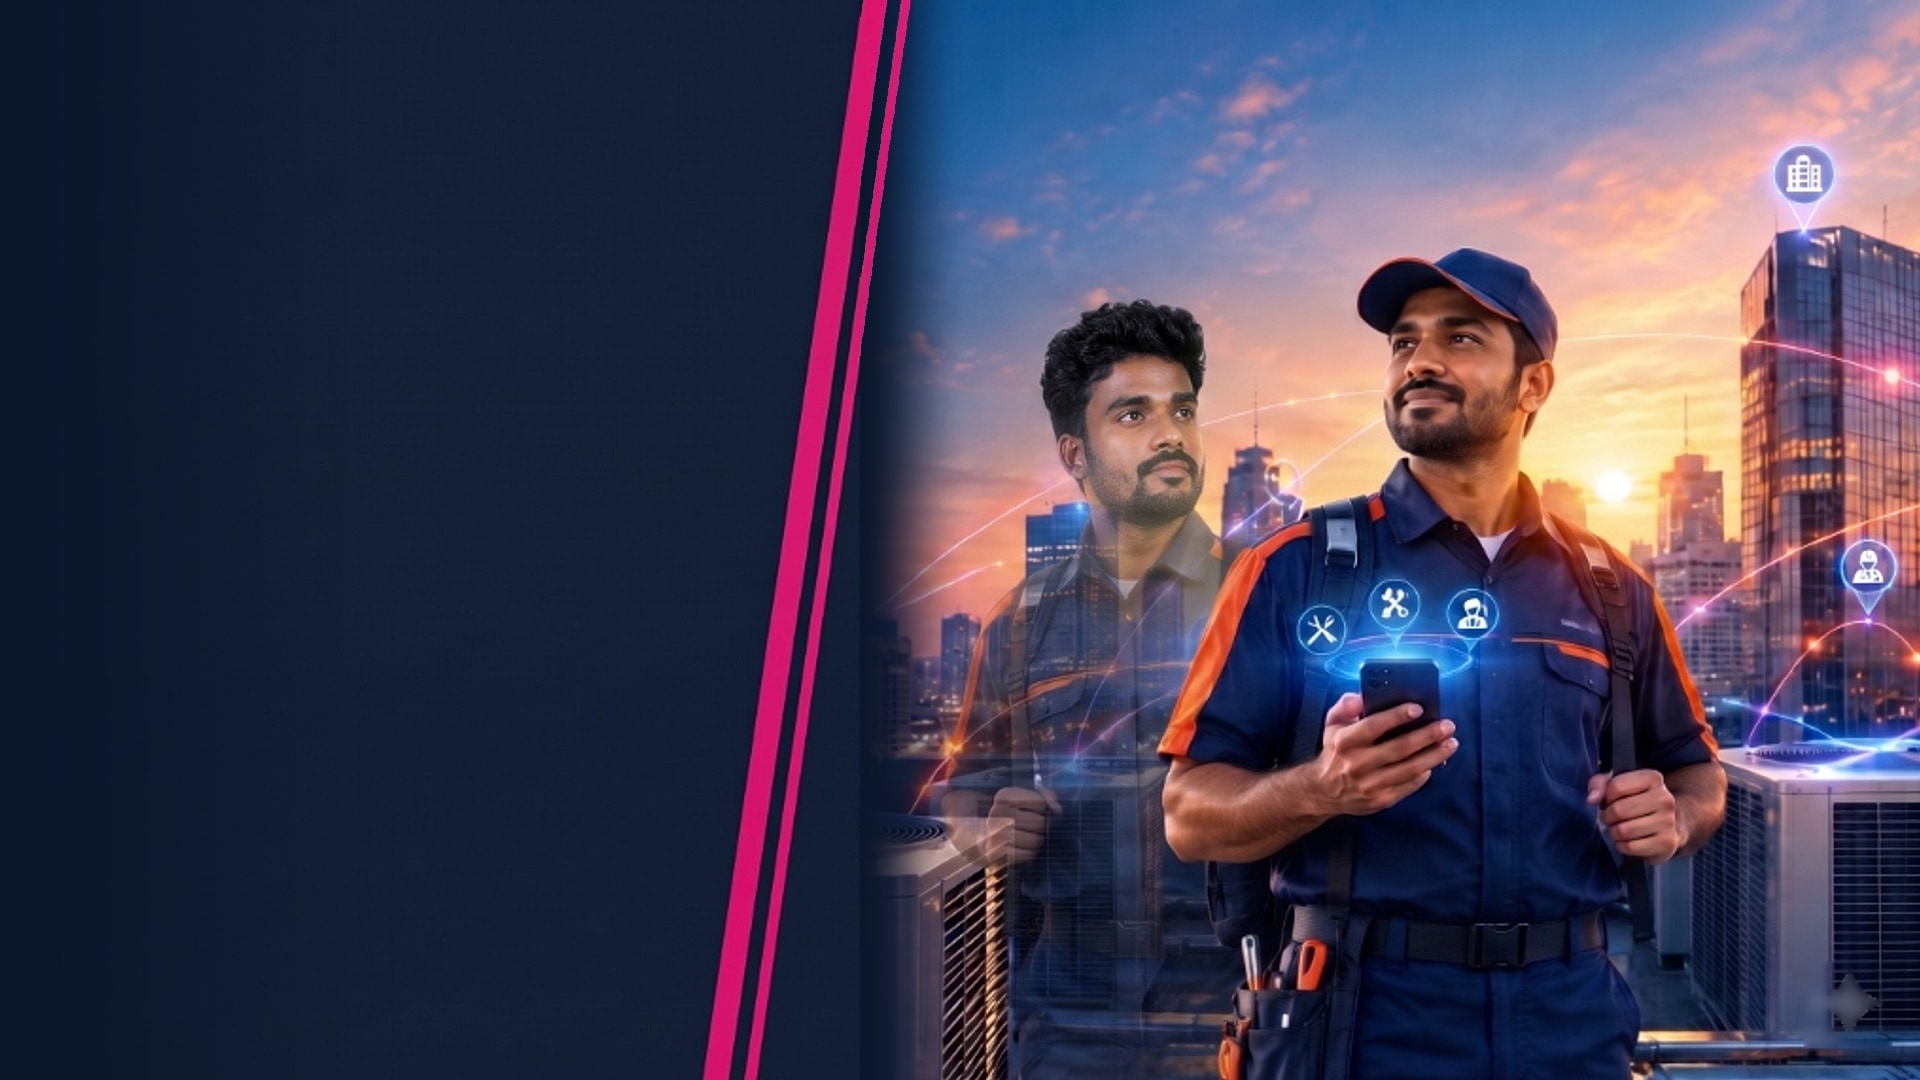
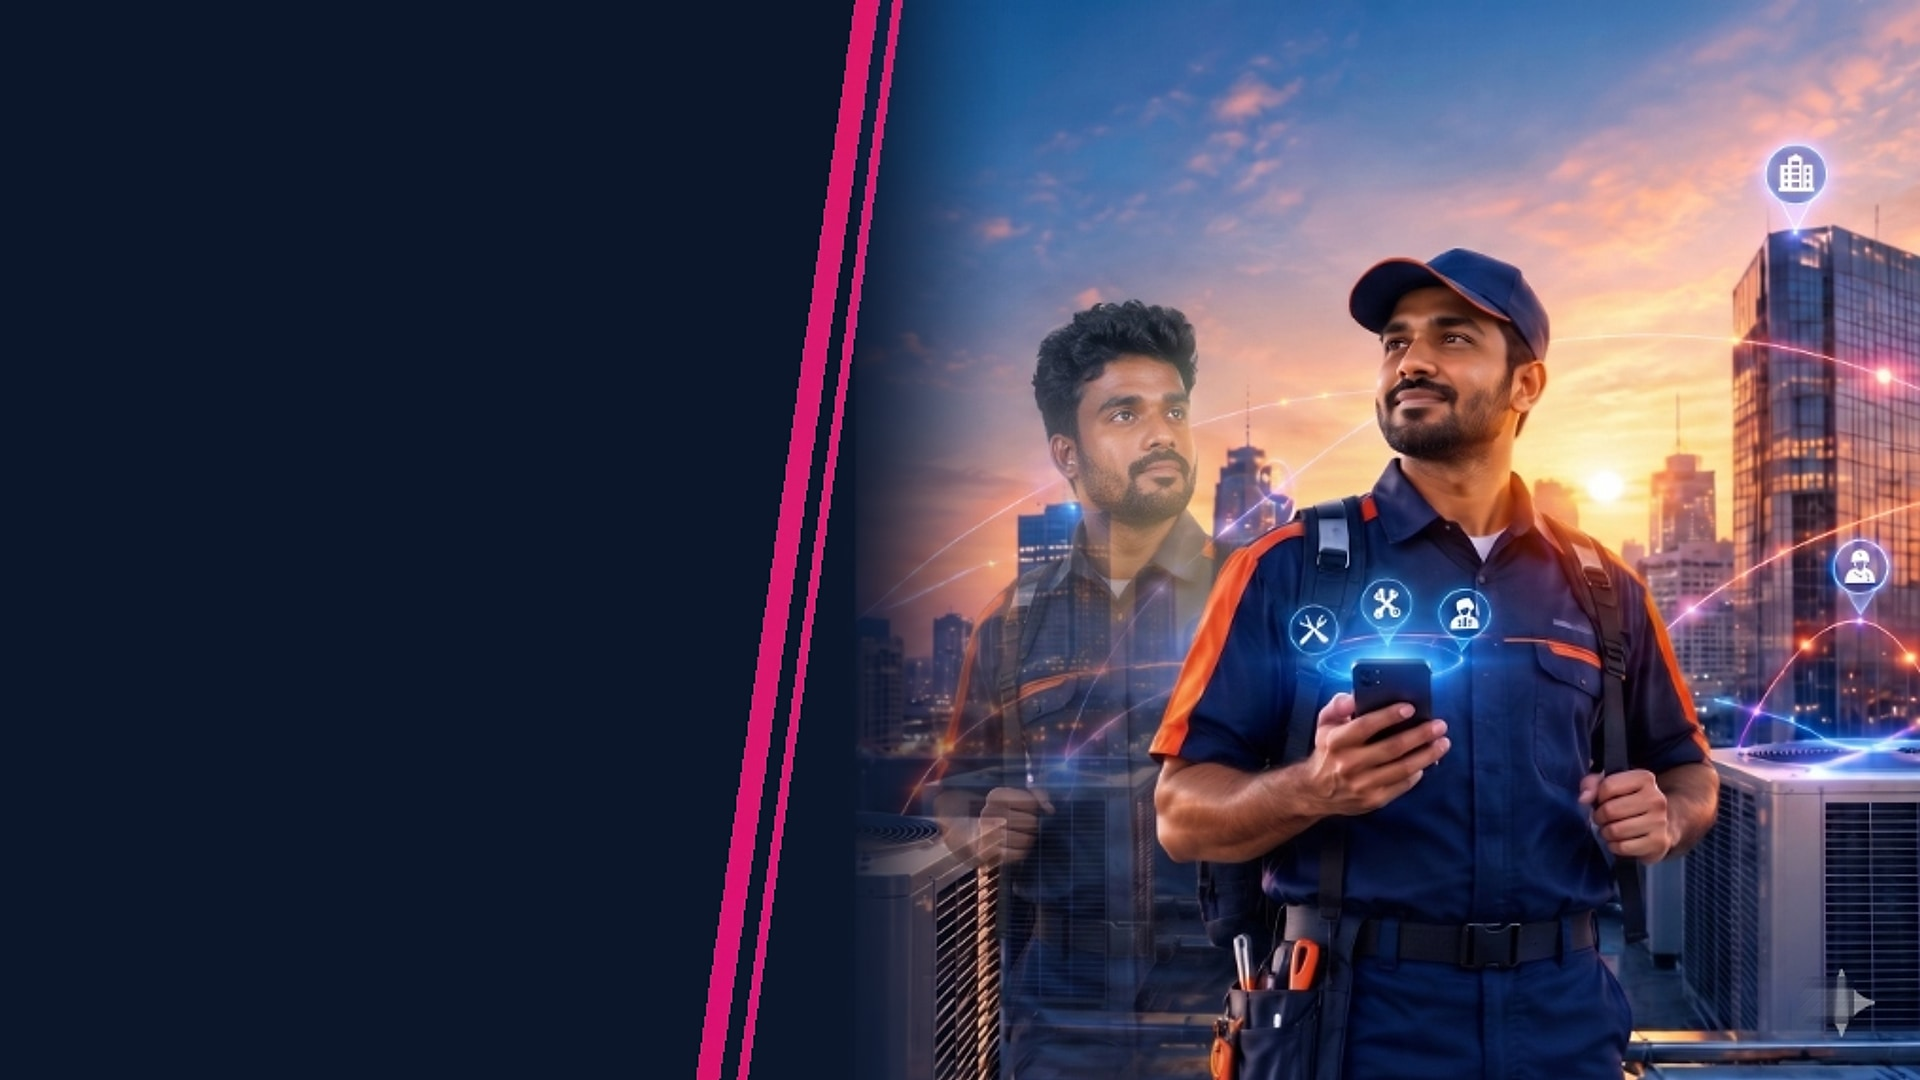
feat: eliminate hero image straight seam, erase gemini watermark, upscale to 1080p, and optimize page speed

Changed region(s): [[0.3438, 0.0, 1.0, 1.0], [0.625, 0.0611, 0.6562, 0.1528]]

diff --git a/src/components/Hero.tsx b/src/components/Hero.tsx
@@ -12,12 +12,20 @@ export const Hero: React.FC<HeroProps> = ({ onExploreClick }) => {
     <section id="hero" className="relative min-h-[720px] lg:min-h-[820px] xl:min-h-[880px] bg-[#0B162B] text-white pt-24 pb-14 lg:py-0 overflow-hidden flex items-center">
       {/* Merged Background Image Layer with edge-to-edge bleed and smooth gradient dissolves */}
       <div className="absolute inset-0 pointer-events-none overflow-hidden z-0" aria-hidden="true">
-        <picture>
+        <picture
+          className="w-full h-full block"
+          style={{
+            maskImage:
+              'linear-gradient(90deg, transparent 0%, transparent 4%, rgba(0,0,0,0.4) 16%, rgba(0,0,0,0.9) 30%, black 45%, black 100%)',
+            WebkitMaskImage:
+              'linear-gradient(90deg, transparent 0%, transparent 4%, rgba(0,0,0,0.4) 16%, rgba(0,0,0,0.9) 30%, black 45%, black 100%)',
+          }}
+        >
           <source srcSet="/images/skornet-hero-bg.webp" type="image/webp" />
           <img
             src="/images/skornet-hero-bg.jpg"
             alt="SKORNET Connected HVAC Service Ecosystem"
-            className="w-full h-full object-cover object-[78%_center] sm:object-[75%_center] lg:object-[80%_center] xl:object-[82%_center] 2xl:object-right"
+            className="w-full h-full object-cover object-right"
             loading="eager"
             fetchPriority="high"
             width="1920"
@@ -50,7 +58,7 @@ export const Hero: React.FC<HeroProps> = ({ onExploreClick }) => {
           className="absolute inset-0 w-full pointer-events-none z-1"
           style={{
             background:
-              'linear-gradient(90deg, #0B162B 0%, #0B162B 28%, rgba(11, 22, 43, 0.92) 40%, rgba(11, 22, 43, 0.70) 52%, rgba(11, 22, 43, 0.32) 66%, rgba(11, 22, 43, 0.08) 80%, transparent 92%)',
+              'linear-gradient(90deg, #0B162B 0%, #0B162B 22%, rgba(11, 22, 43, 0.95) 34%, rgba(11, 22, 43, 0.65) 46%, rgba(11, 22, 43, 0.20) 60%, transparent 74%)',
           }}
           aria-hidden="true"
         />
